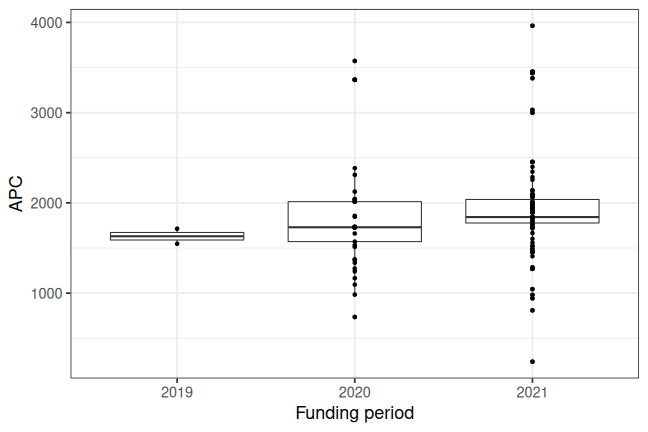
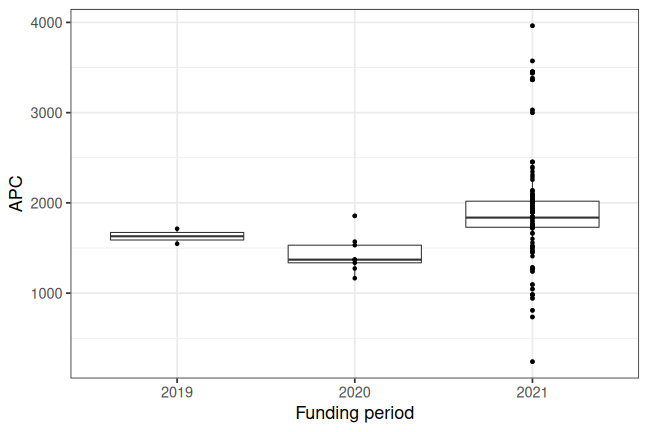
update: bonn u deal data 2021

diff --git a/_posts/2023-02-14-bonn.md b/_posts/2023-02-14-bonn.md
@@ -22,18 +22,19 @@ Contact Person is [Ariane Larrat](mailto:openaccess@ulb.uni-bonn.de).
 
 
 
-The new data set covers publication fees for 103 articles published in Gold OA journals, total expenditure amounts to 202,674€ and the average fee is 1,968€. Please note that articles published in **hybrid** journals under the DEAL agreement are not included in this list, as they are aggregated in OpenAPC's [transformative agreements data set](https://github.com/OpenAPC/openapc-de/tree/master/data/transformative_agreements).
+The new data set covers publication fees for 144 articles published in Gold OA journals, total expenditure amounts to 280,848€ and the average fee is 1,950€. Please note that articles published in **hybrid** journals under the DEAL agreement are not included in this list, as they are aggregated in OpenAPC's [transformative agreements data set](https://github.com/OpenAPC/openapc-de/tree/master/data/transformative_agreements).
 
 The following table provide an overwiew:
 
 
 |                                                | Articles| Fees paid in EURO| Mean Fee paid|
 |:-----------------------------------------------|--------:|-----------------:|-------------:|
-|Springer Nature                                 |       77|            154969|          2013|
-|Wiley-Blackwell                                 |       15|             28247|          1883|
+|Springer Nature                                 |      112|            221478|          1977|
+|Wiley-Blackwell                                 |       20|             36339|          1817|
 |MDPI AG                                         |        5|              9232|          1846|
 |Frontiers Media SA                              |        4|              6763|          1691|
 |Elsevier BV                                     |        1|              1559|          1559|
+|EMBO                                            |        1|              3573|          3573|
 |Institution of Engineering and Technology (IET) |        1|              1904|          1904|
 
 ## Overview
